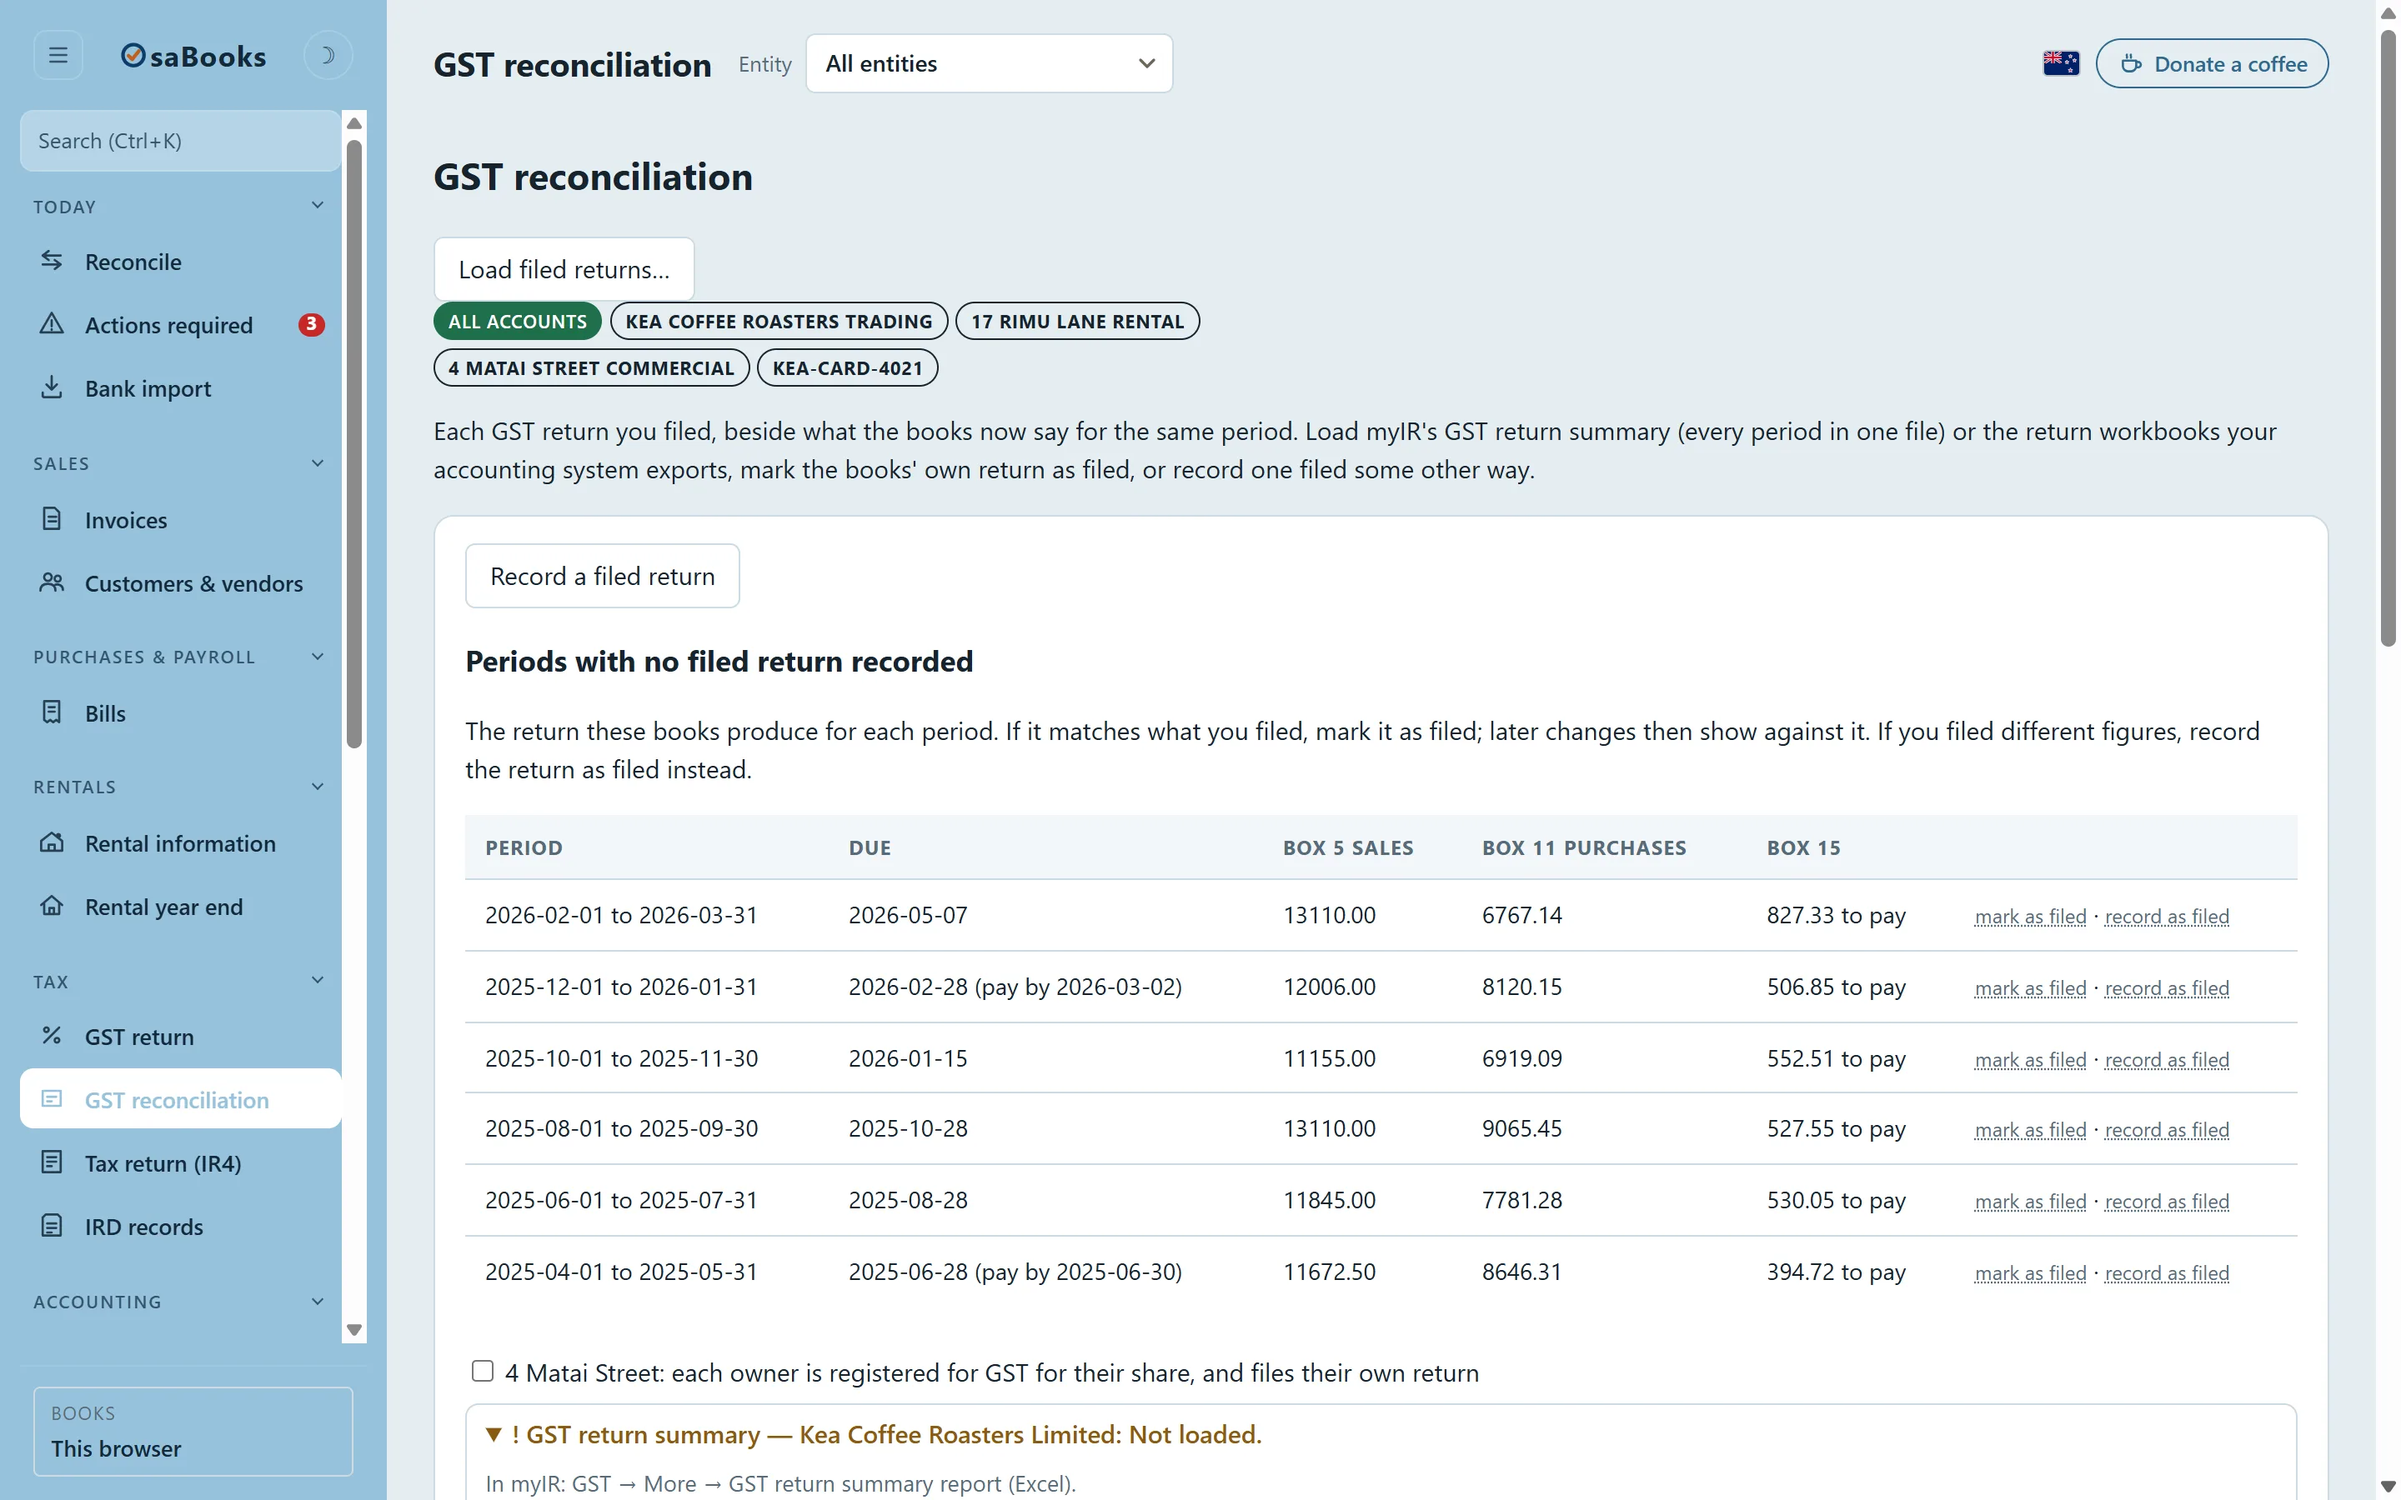
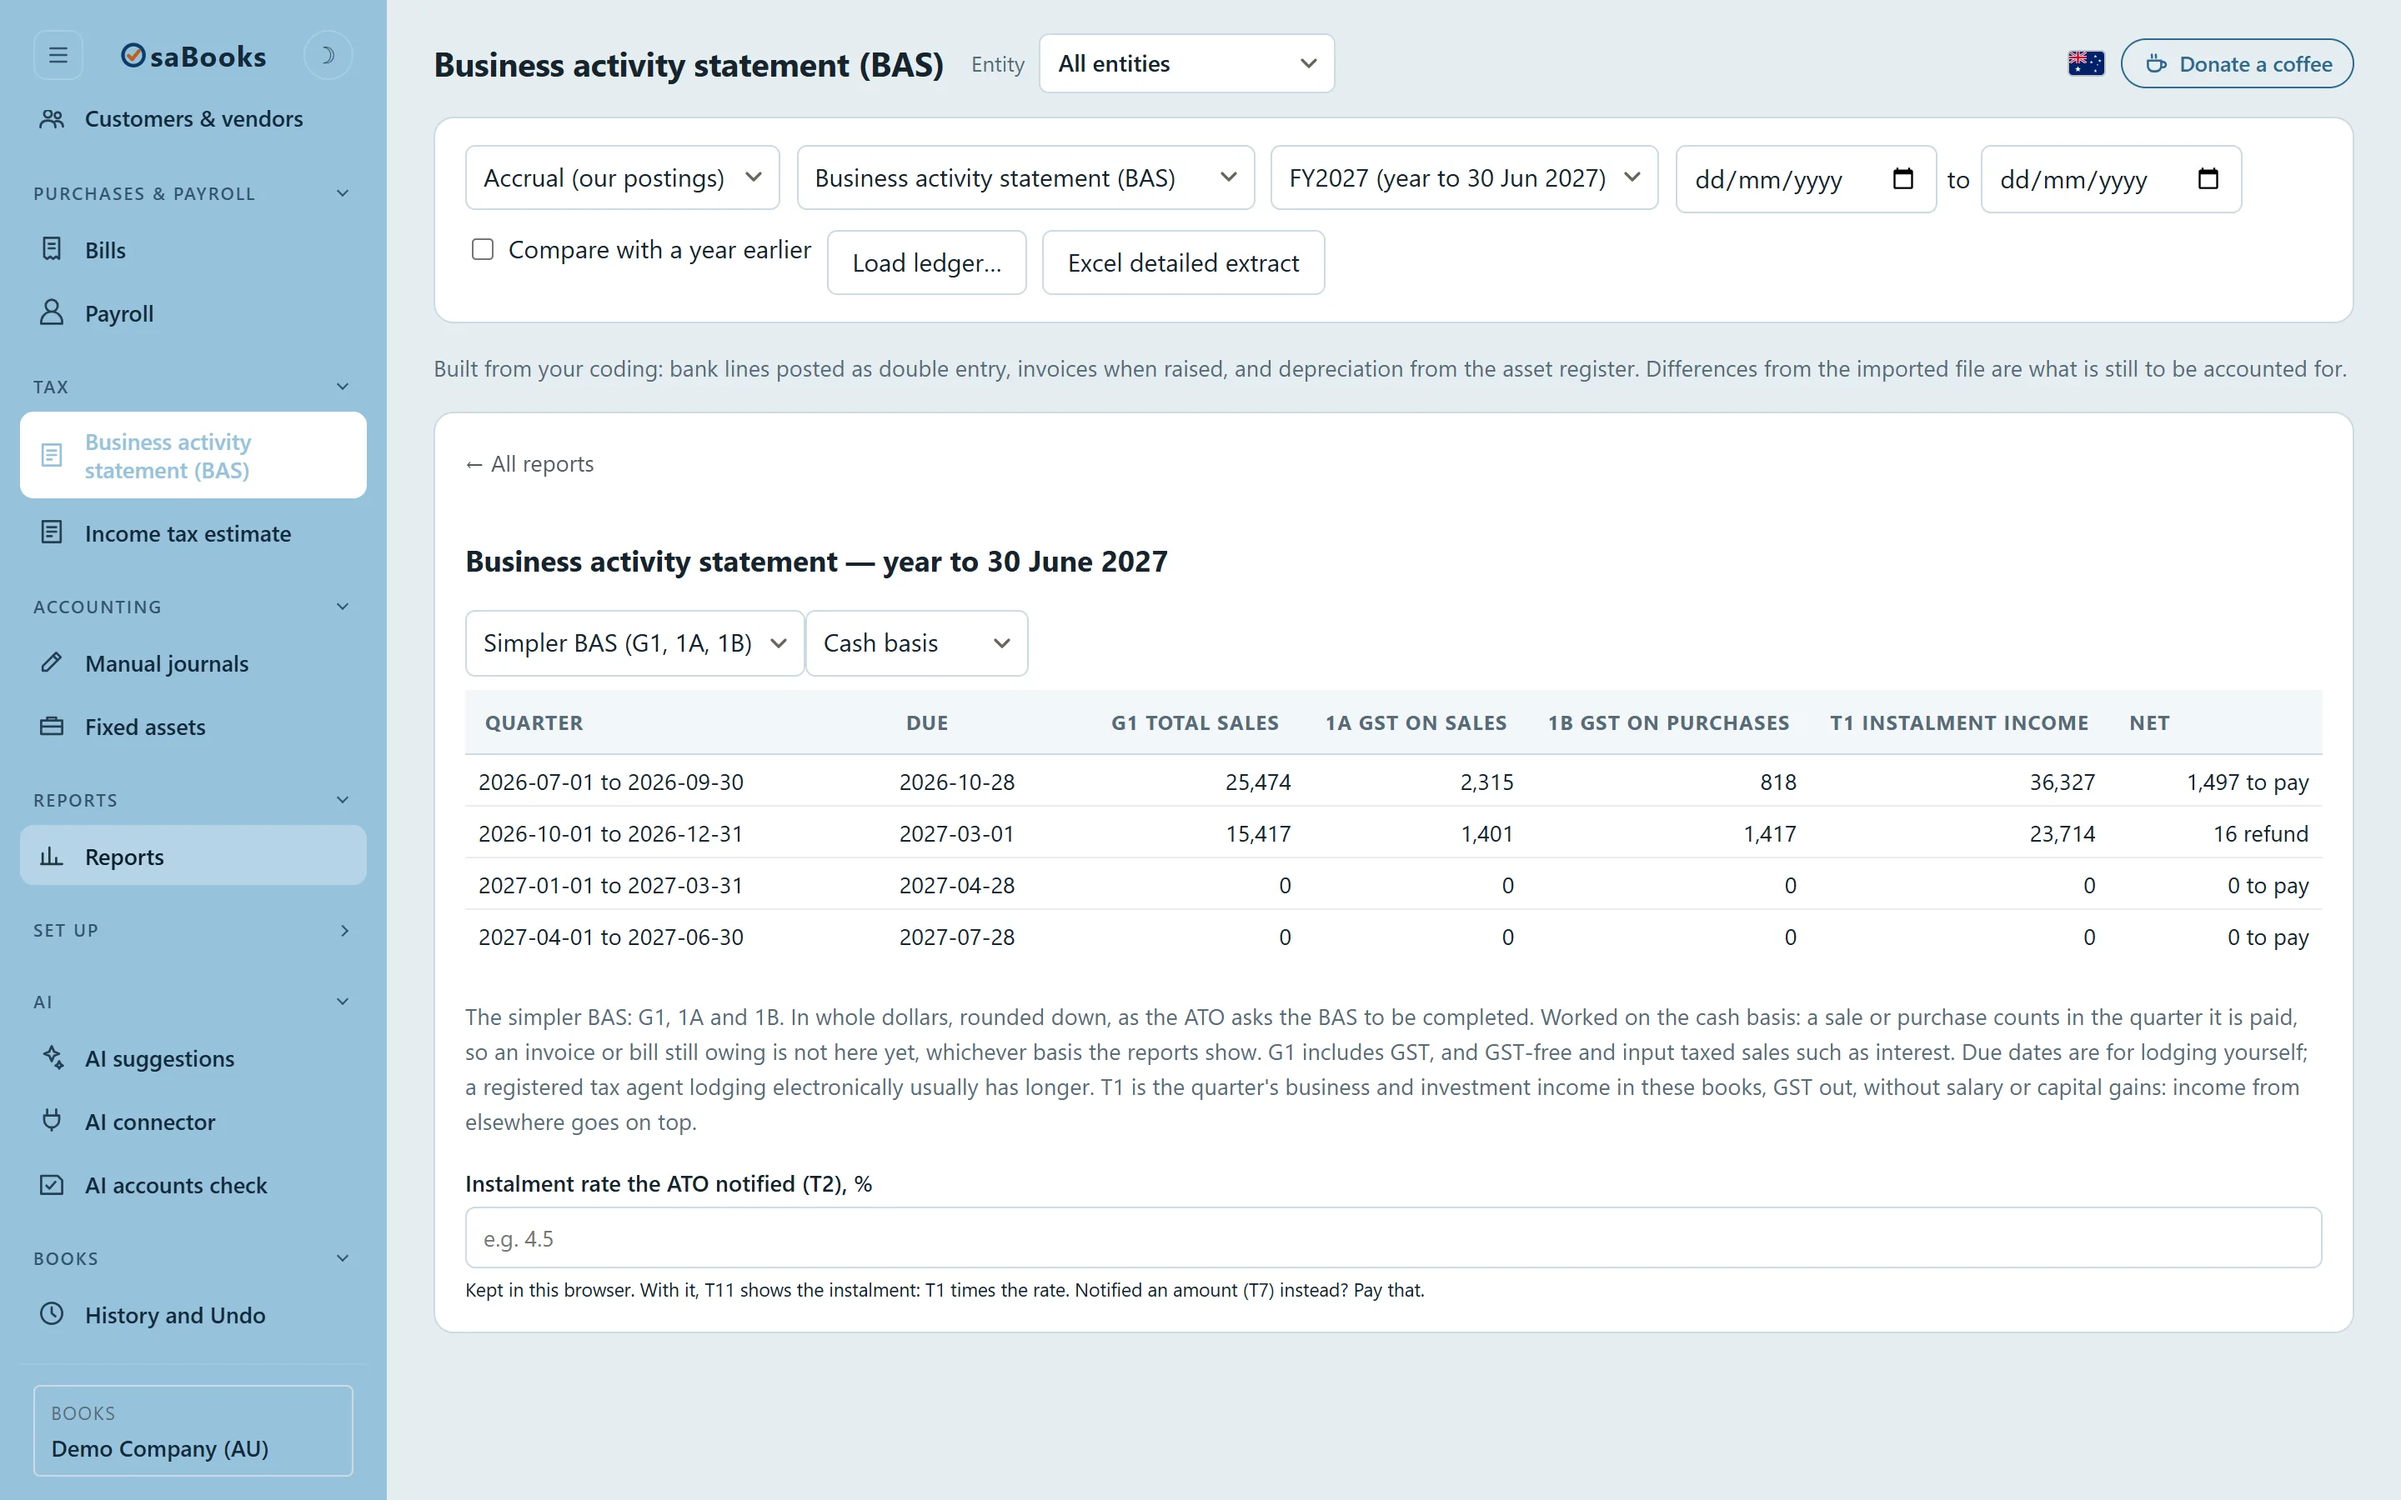
Home page screenshots from Australian books
Xero's Demo Company (AU), built through the screens: Reconcile with
invoice payments matched and a wage split with PAYG, the profit and loss,
the BAS, and the fixed asset register in place of a New Zealand rental's
year end.

diff --git a/apps/web/public/home/index.html b/apps/web/public/home/index.html
@@ -203,7 +203,7 @@
       </ul>
       <div class="shot">
         <div class="bar"><i></i><i></i><i></i></div>
-        <img src="img/reconcile.webp" width="2880" height="1800" alt="OsaBooks's Reconcile page: bank lines with a suggested account, GST rate and description against each.">
+        <img src="img/reconcile.webp" width="2880" height="1800" alt="OsaBooks's Reconcile page for an Australian company: customer payments matched to their invoices automatically, and a wage payment split between wages and PAYG withheld.">
       </div>
     </div>
   </section>
@@ -872,7 +872,7 @@
             <li><svg class="icon"><use href="#i-tick"/></svg>Split a line between accounts, or between people, in a couple of clicks.</li>
           </ul>
         </div>
-        <div class="shot"><div class="bar"><i></i><i></i><i></i></div><img src="img/reports.webp" width="2880" height="1800" alt="A profit and loss report in OsaBooks, with the number of lines behind each account."></div>
+        <div class="shot"><div class="bar"><i></i><i></i><i></i></div><img src="img/reports.webp" width="2880" height="1800" alt="A profit and loss report in OsaBooks for an Australian company, with the number of lines behind each account."></div>
       </div>
 
       <div class="split flip">
@@ -886,21 +886,21 @@
             <li><svg class="icon"><use href="#i-tick"/></svg>Each owner of a shared rental can file for their own share.</li>
           </ul>
         </div>
-        <div class="shot"><div class="bar"><i></i><i></i><i></i></div><img src="img/gst.webp" width="2880" height="1800" alt="OsaBooks's GST reconciliation: each period with boxes 5, 11 and 15 and when it is due."></div>
+        <div class="shot"><div class="bar"><i></i><i></i><i></i></div><img src="img/gst.webp" width="2880" height="1800" alt="OsaBooks's business activity statement: each quarter's G1, 1A and 1B, the instalment income and when it is due."></div>
       </div>
 
       <div class="split">
         <div class="copy">
           <span class="kicker">Year end</span>
           <h3>Rental schedules and tax figures, ready for your accountant.</h3>
-          <p>Each property's year on one card: its schedule, the property manager's statements and trips made to it. Each owner's share follows them into their own tax figures.</p>
+          <p>Each property's year on one card: its schedule, the property manager's statements and trips made to it. Each owner's share follows them into their own tax figures, and the asset register works out each year's depreciation.</p>
           <ul>
             <li><svg class="icon"><use href="#i-tick"/></svg>Property manager statements entered by hand, or read for you if you use AI.</li>
             <li><svg class="icon"><use href="#i-tick"/></svg>Your country's own forms and schedules, worked out from your books.</li>
             <li><svg class="icon"><use href="#i-tick"/></svg>A full year checked against an accountant's signed accounts, to the dollar.</li>
           </ul>
         </div>
-        <div class="shot"><div class="bar"><i></i><i></i><i></i></div><img src="img/rentalyear.webp" width="2880" height="1800" alt="OsaBooks's Rental year end page: a rental property's income and expenses for the year, and its property manager statements."></div>
+        <div class="shot"><div class="bar"><i></i><i></i><i></i></div><img src="img/assets.webp" width="2880" height="1800" alt="OsaBooks's fixed asset register: each asset's cost, depreciation method, the year's depreciation and its book value at the year end."></div>
       </div>
     </div>
   </section>
